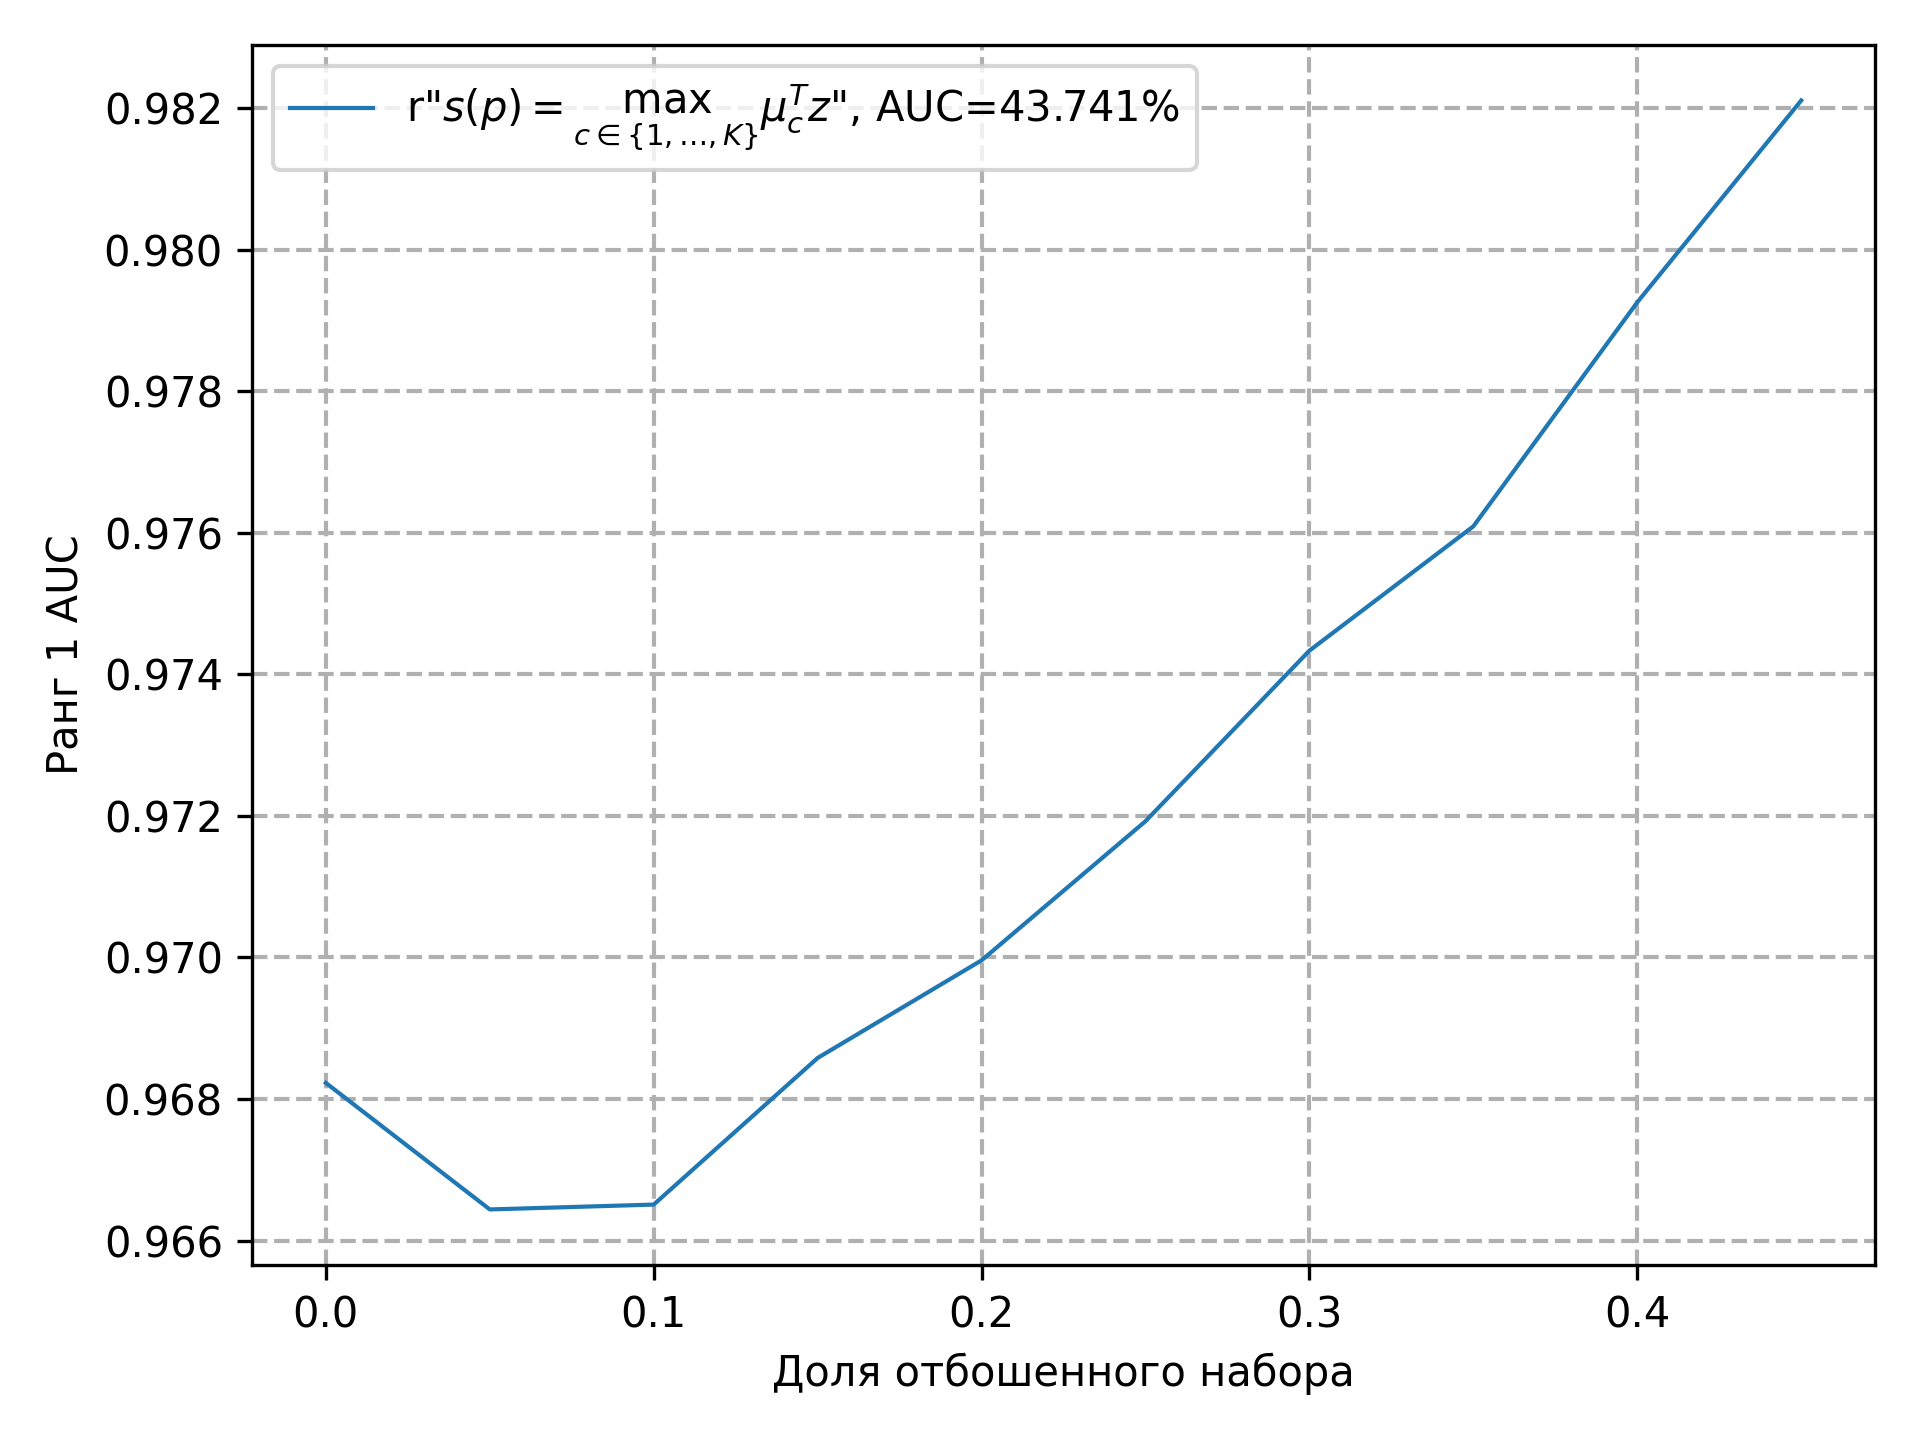
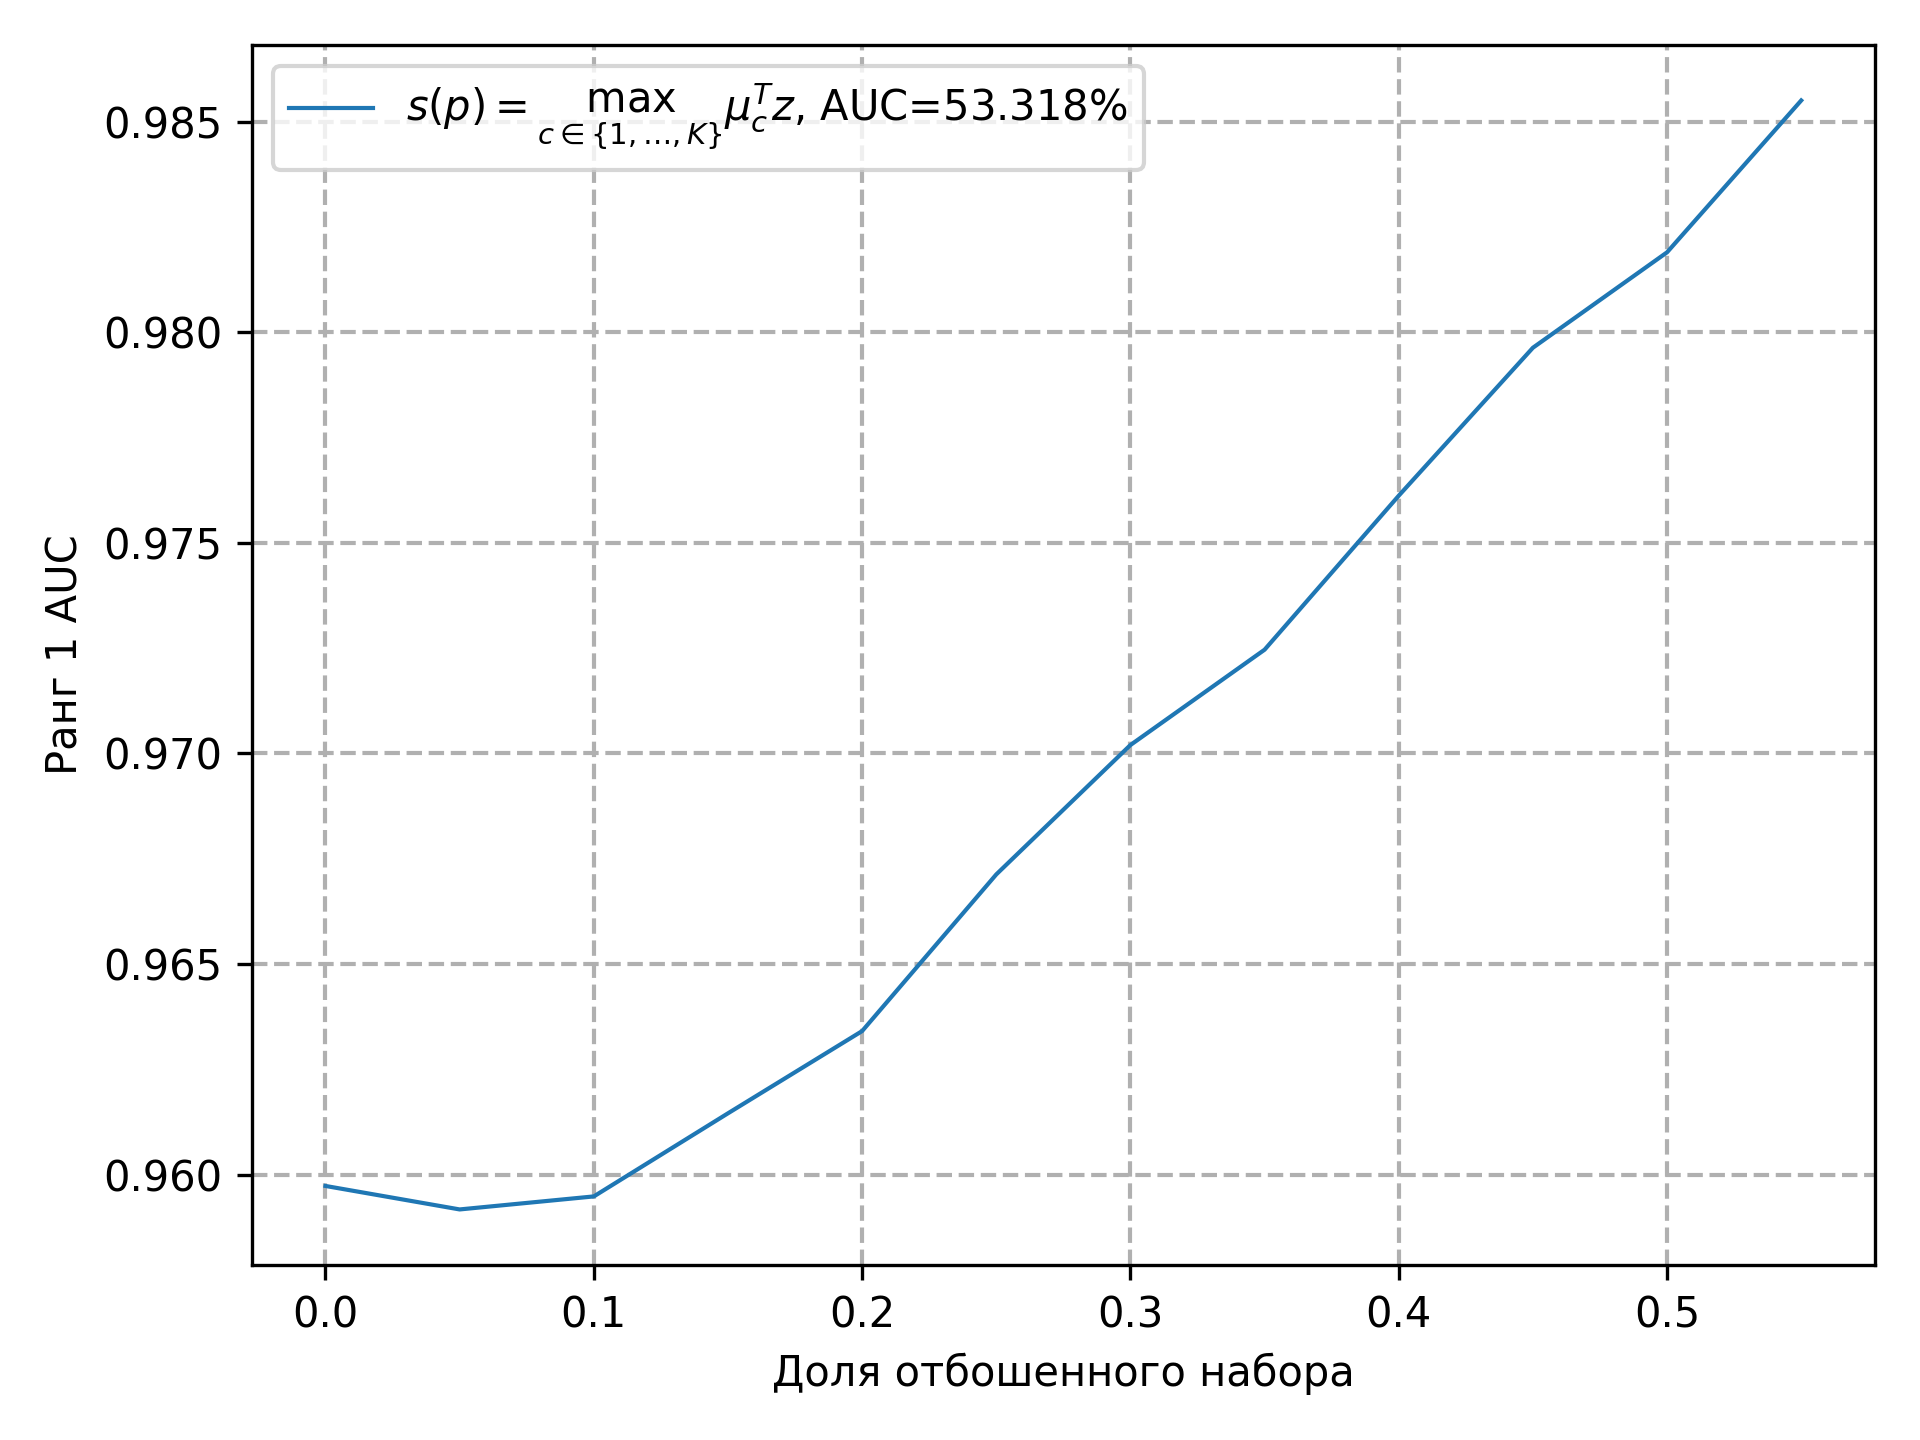
data uncertainty reject

diff --git a/evaluation/uncertainty_metrics.py b/evaluation/uncertainty_metrics.py
@@ -49,7 +49,52 @@ def get_reject_metrics(
     unc_metric.update(aucs)
     return unc_metric
 
+class OptimalReject:
+    def __init__(self, metric_to_monitor: any, fractions: List[int]) -> None:
+        self.fractions = np.arange(fractions[0], fractions[1], step=fractions[2])
+        self.metric_to_monitor = metric_to_monitor
+    
+    def __call__(
+            self,
+            probe_ids: np.ndarray,
+            probe_template_unc: np.ndarray,
+            gallery_ids: np.ndarray,
+            similarity: np.ndarray,
+            probe_score: np.ndarray,
+        ) -> Any:
+        pass
 
+class DataUncertaintyReject:
+    def __init__(self, metric_to_monitor: any, fractions: List[int], is_confidence: bool) -> None:
+        self.fractions = np.arange(fractions[0], fractions[1], step=fractions[2])
+        self.metric_to_monitor = metric_to_monitor
+        self.is_confidence = is_confidence
+    def __call__(
+            self,
+            probe_ids: np.ndarray,
+            probe_template_unc: np.ndarray,
+            gallery_ids: np.ndarray,
+            similarity: np.ndarray,
+            probe_score: np.ndarray,
+        ) -> Any:
+        if self.is_confidence:
+            unc_score = -probe_template_unc[:, 0]
+        else:
+            unc_score = probe_template_unc
+        unc_metric_name = (
+            self.__class__.__name__
+        )
+        unc_metric = get_reject_metrics(
+            unc_metric_name,
+            unc_score,
+            self.metric_to_monitor,
+            probe_ids,
+            gallery_ids,
+            similarity,
+            probe_score,
+            self.fractions,
+        )
+        return unc_metric
 class BernoulliVarianceReject:
     def __init__(self, metric_to_monitor: any, fractions: List[int]) -> None:
         self.fractions = np.arange(fractions[0], fractions[1], step=fractions[2])
@@ -67,7 +112,8 @@ class BernoulliVarianceReject:
         unc_score = probe_score_norm * (1 - probe_score_norm)
         unc_metric_name = (
             self.__class__.__name__
-        )  # r"$m(p) = \max_{c\in\{1,\dots,K+1\}}p(c|z)$" #
+        ) 
+        #unc_metric_name = r"$m(p) = \frac{s(p)+1}{2}\left(1 - \frac{s(p)+1}{2}\right)$" #
         unc_metric = get_reject_metrics(
             unc_metric_name,
             unc_score,
@@ -111,7 +157,8 @@ class CombinedMaxProb:
         unc_score = -np.max(all_classes_log_prob, axis=1)
         unc_metric_name = (
             self.__class__.__name__
-        )  # r"$m(p) = \max_{c\in\{1,\dots,K+1\}}p(c|z)$" #
+        )
+        #unc_metric_name = r"$m(p) = \max_{c\in {1,\dots,K+1}}p(c|z)$"
         unc_metric = get_reject_metrics(
             unc_metric_name,
             unc_score,
@@ -145,7 +192,8 @@ class MeanDistanceReject:
         unc_score = -np.abs(probe_score - mean_probe_score)
         unc_metric_name = (
             self.__class__.__name__
-        )  # r"$m(p) = \left|s(p)-\frac{1}{N}\sum_{p\in TestSet}s(p)\right|$" #
+        ) 
+        #unc_metric_name = r"$m(p) = \left|s(p)-\frac{1}{N}\sum_{p\in TestSet}s(p)\right|$" #
         unc_metric = get_reject_metrics(
             unc_metric_name,
             unc_score,

diff --git a/evaluation/visualize.py b/evaluation/visualize.py
@@ -4,12 +4,12 @@ import pandas as pd
 from sklearn.metrics import roc_curve, auc
 
 
-def plot_rejection_scores(scores, y_label, names=None):
+def plot_rejection_scores(scores, y_label, names):
     import matplotlib.pyplot as plt
 
     fig = plt.figure()
     for id, score in enumerate(scores):
-        name = None if names is None else names[id]
+        name = names[id]
         if isinstance(score, str) and score.endswith(".npz"):
             aa = np.load(score)
             score, name = aa.get("scores")[0], aa.get("names")[0]
@@ -17,7 +17,7 @@ def plot_rejection_scores(scores, y_label, names=None):
         name = name if name is not None else str(id)
 
         # auc_value = auc(rank, cmc)
-        label = f"{name}, AUC={np.round(auc(fractions, metric_value)*100, 3)}%"
+        label = name + f", AUC={np.round(auc(fractions, metric_value)*100, 3)}%"
         plt.plot(fractions, metric_value, lw=1, label=label)
 
     plt.xlabel("Доля отбошенного набора")

diff --git a/evaluation/face_recognition_test.py b/evaluation/face_recognition_test.py
@@ -300,12 +300,12 @@ class Face_Fecognition_test:
                         probe_score=probe_score,
                     )
                 )
-            warnings.warn("Aggregation of unc metrics is unchecked")
+            #warnings.warn("Aggregation of unc metrics is unchecked")
             for key in g2_metrics.keys():
                 if "recalls" in key or "AUC" in key or "top" in key:
                     metrics[key] = (metrics[key] + g2_metrics[key]) / 2
             for key in g2_unc_metrics.keys():
-                if "final_auc" in key:
+                if "final_auc" in key or "plot_auc" in key:
                     unc_metrics[key] = (unc_metrics[key] + g2_unc_metrics[key]) / 2
 
         else:

diff --git a/evaluation/ijb_evals.py b/evaluation/ijb_evals.py
@@ -131,7 +131,7 @@ def create_rejection_plots(
             pretty_unc_metric_name = metric_name.split("_")[-1]
             for model_name, metrics in open_set_uncertainty_result_metrics.items():
                 model_names.append(
-                    pretty_names[model_name] + "_" + pretty_unc_metric_name
+                    pretty_names[model_name] + ";  " + pretty_unc_metric_name
                 )
                 scores.append((metrics["fractions"], metrics[metric_name]))
 
